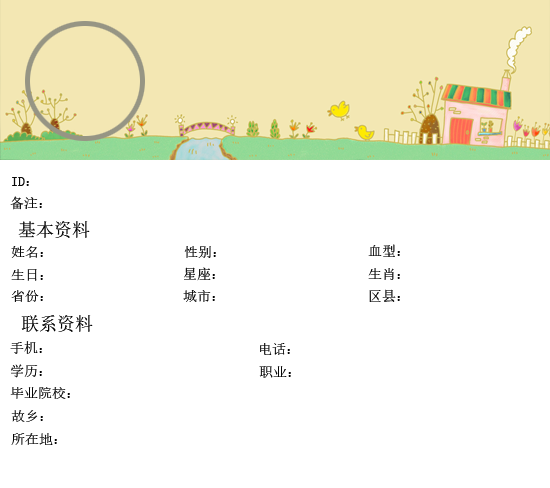
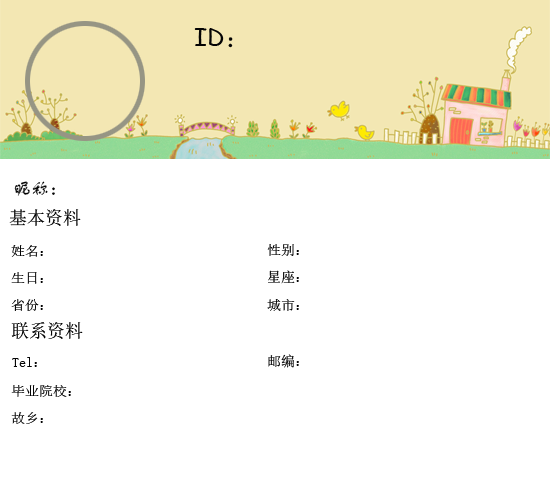
结构体修改

diff --git a/imcommon/include/imcommon/friends.h b/imcommon/include/imcommon/friends.h
@@ -15,23 +15,16 @@ typedef struct __attribute__ ((packed))
     char sex;
     char nickName[32];
     unsigned char icon[16];
-    char note[31];
     char name[13];
-    char bloodtype;
     char birthday[11];
     char constellation;
-    char zodiac;
     char provinces[10];
     char city[13];
-    char county[28];
-    char phonenumber[12];
+    char postcode[6];
     char tel[14];
-    char schoolrecord;
-    char professional[19];
     char school[28];
     char hometown[51];
-    char home[51];
-
+    uint32_t lastlogin;
 } UserInfo;
 
 typedef struct __attribute__ ((packed))
